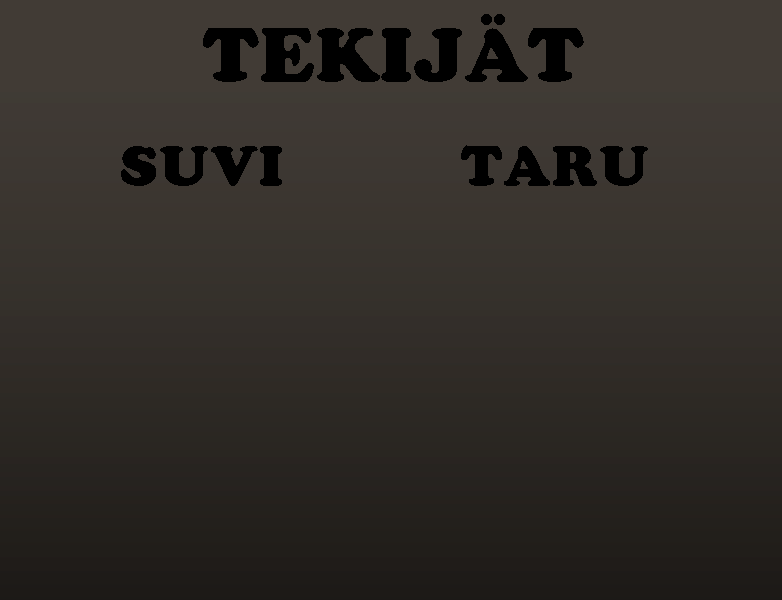
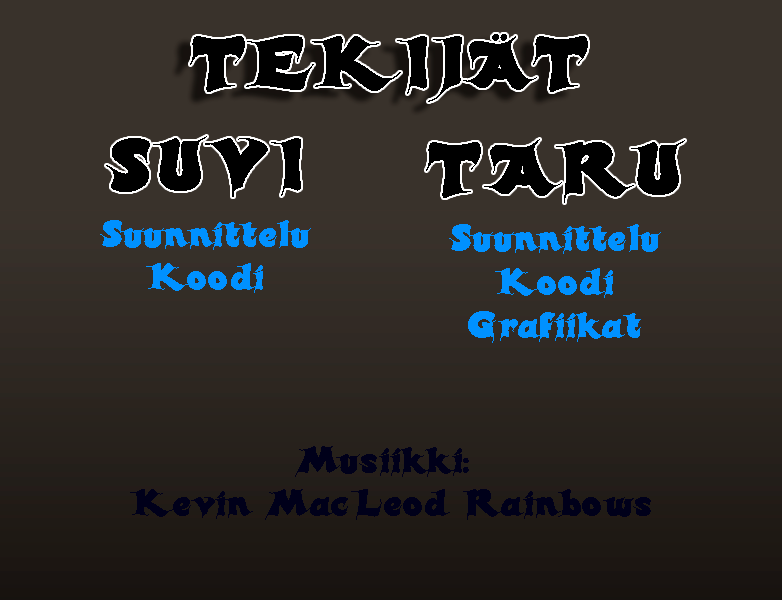
vielä viilausta

diff --git a/harkkatyo/CreditsPage.xaml b/harkkatyo/CreditsPage.xaml
@@ -9,9 +9,9 @@
 
     <Grid Background="{ThemeResource ApplicationPageBackgroundThemeBrush}">
 
-        <Canvas Width="782" Height="600" Background="Moccasin">
+        <Canvas Width="782" Height="600">
 
-            <Image Source="Assets\tekijattausta.png"></Image>
+            <Image Source="Assets\tekijaTtausta.png"></Image>
             <Button x:Name="BackButton" Content="Takaisin" 
                             Width="100" Margin="20"
                             Click="BackButton_Click"/>

diff --git a/harkkatyo/GameOver.xaml b/harkkatyo/GameOver.xaml
@@ -11,6 +11,10 @@
 
     <Grid Background="{ThemeResource ApplicationPageBackgroundThemeBrush}">
         <Image Source="Assets\hävisit.png"></Image>
-        <Button x:Name="takaisinalkuun" Content="valikkoon" Click="takaisinalkuun_Click" Height="70" Margin="346,185,0,345"></Button>
+        <Button x:Name="takaisinalkuun" Click="takaisinalkuun_Click" Height="70" Margin="262,520,0,10">
+            <Image Source="Assets/valikkoon.png"></Image>
+        </Button>
     </Grid>
 </Page>
+
+    

diff --git a/harkkatyo/Voitto.xaml b/harkkatyo/Voitto.xaml
@@ -11,7 +11,7 @@
 
     <Grid Background="{ThemeResource ApplicationPageBackgroundThemeBrush}">
         <Image Source="Assets/voitto.png"></Image>
-        <Button x:Name="takaisinalkuun" Click="takaisinalkuun_Click" Margin="434,335,0,195">
+        <Button x:Name="takaisinalkuun" Click="takaisinalkuun_Click" Margin="266,520,0,10">
             <Image Source="Assets/valikkoon.png"></Image>
             
             
